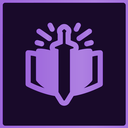
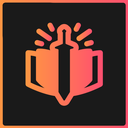
Show violet while RSR runs and red while it is off, and ask RSR's IPC for its state first
Wrath's toggle shows the icon of the action a press would take: violet
'enable' while off, red 'disable' while on; the first build had them
swapped. RSR does expose AutorotationActive over IPC after all (BossMod
Reborn reads it), so the button asks that first and falls back to the
statics only when nothing answers.

diff --git a/XIVHelper/HotbarButton/RsrButton.cs b/XIVHelper/HotbarButton/RsrButton.cs
@@ -2,6 +2,7 @@ using System.Numerics;
 using Dalamud.Bindings.ImGui;
 using Dalamud.Hooking;
 using Dalamud.Plugin;
+using Dalamud.Plugin.Ipc;
 using Dalamud.Plugin.Services;
 using FFXIVClientStructs.FFXIV.Client.Game;
 using FFXIVClientStructs.FFXIV.Client.UI;
@@ -16,7 +17,7 @@ public sealed unsafe class RsrButton : IDisposable
     public const uint Toggle = 1_100_001;
     public const uint On = 1_100_002;
     public const uint Off = 1_100_003;
-    // real icon ids the game loads before the custom texture replaces them (the ones Wrath Combo uses)
+    // real ids the game loads before the texture swap, borrowed from Wrath (violet = on, red = off)
     private const uint ToggleIcon = 1527, OnIcon = 1523, OffIcon = 1526;
     private const string SigReceiveEvent = "48 89 5C 24 ?? 48 89 6C 24 ?? 48 89 74 24 ?? 48 89 7C 24 ?? 41 56 48 83 EC 20 48 8B 7C 24 ?? 48 8B D9";
     private const string SigIsActionReplaceable = "40 53 48 83 EC 20 8B D9 48 8B 0D ?? ?? ?? ?? E8 ?? ?? ?? ?? 48 85 C0 74 1F";
@@ -44,6 +45,12 @@ public sealed unsafe class RsrButton : IDisposable
         this.objects = objects;
         this.log = log;
         manager = new CustomActionManager(sig, hooks, textures, framework, log);
+        var active = pluginInterface.GetIpcSubscriber<bool>("RotationSolverReborn.AutorotationActive");
+        RsrState.Probe = () =>
+        {
+            try { return active.InvokeFunc(); }
+            catch (Exception) { return null; }   // no provider: RSR not loaded, or a build without the call
+        };
         var resources = Path.Combine(pluginInterface.AssemblyLocation.DirectoryName!, "Resources");
         manager.Register(new CustomAction(Toggle, "RSR Toggle", "Switches Rotation Solver Reborn between Off and Manual.", ToggleIcon, Path.Combine(resources, "RsrToggle.png")));
         manager.Register(new CustomAction(On, "RSR Manual", "Rotation Solver Reborn is running in Manual mode; press to switch it off.", OnIcon, Path.Combine(resources, "RsrOn.png")));
@@ -68,6 +75,7 @@ public sealed unsafe class RsrButton : IDisposable
     public void Dispose()
     {
         pluginInterface.UiBuilder.Draw -= Draw;
+        RsrState.Probe = null;
         adjustedHook.Dispose();
         replaceableHook.Dispose();
         useActionHook.Dispose();

diff --git a/XIVHelper/HotbarButton/RsrState.cs b/XIVHelper/HotbarButton/RsrState.cs
@@ -2,7 +2,7 @@ using System.Reflection;
 
 namespace XIVHelper.HotbarButton;
 
-/// <summary>Rotation Solver Reborn's state, read from its DataCenter statics: it exposes no IPC getter (names as of RSR 7.5.7.14).</summary>
+/// <summary>Rotation Solver Reborn's state: its AutorotationActive IPC when it answers, else its DataCenter statics (names as of RSR 7.5.7.14).</summary>
 internal static class RsrState
 {
     private const BindingFlags Static = BindingFlags.Public | BindingFlags.NonPublic | BindingFlags.Static;
@@ -10,8 +10,11 @@ internal static class RsrState
     private static PropertyInfo? manual;
     private static DateTime lastLookup = DateTime.MinValue;
 
+    /// <summary>Asks RSR over IPC; null when nothing answers. Set by the button, kept out of here so this file stays testable.</summary>
+    public static Func<bool?>? Probe { get; set; }
+
     /// <summary>True while RSR runs, false while it is off, null when RSR is not loaded.</summary>
-    public static bool? Running => Read(ref state, "State");
+    public static bool? Running => Probe?.Invoke() ?? Read(ref state, "State");
 
     public static bool? Manual => Read(ref manual, "IsManual");
 
